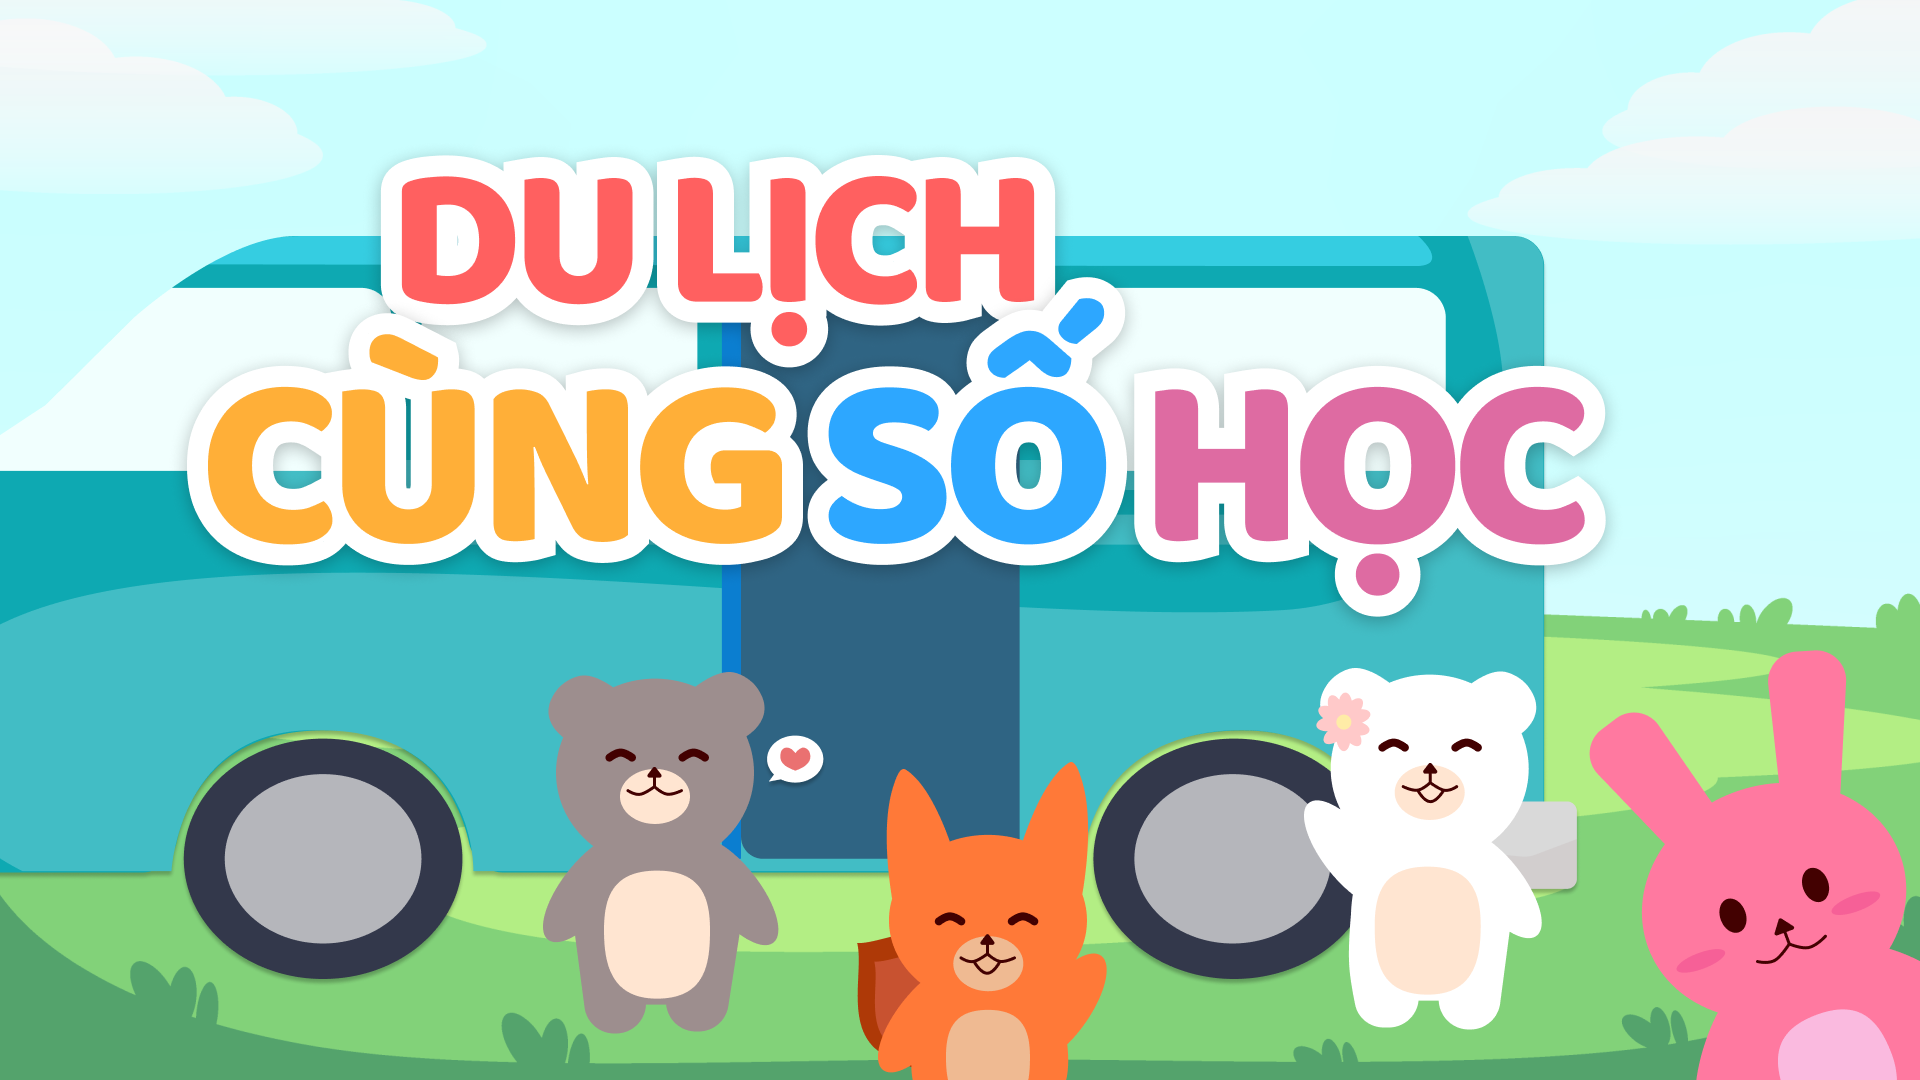
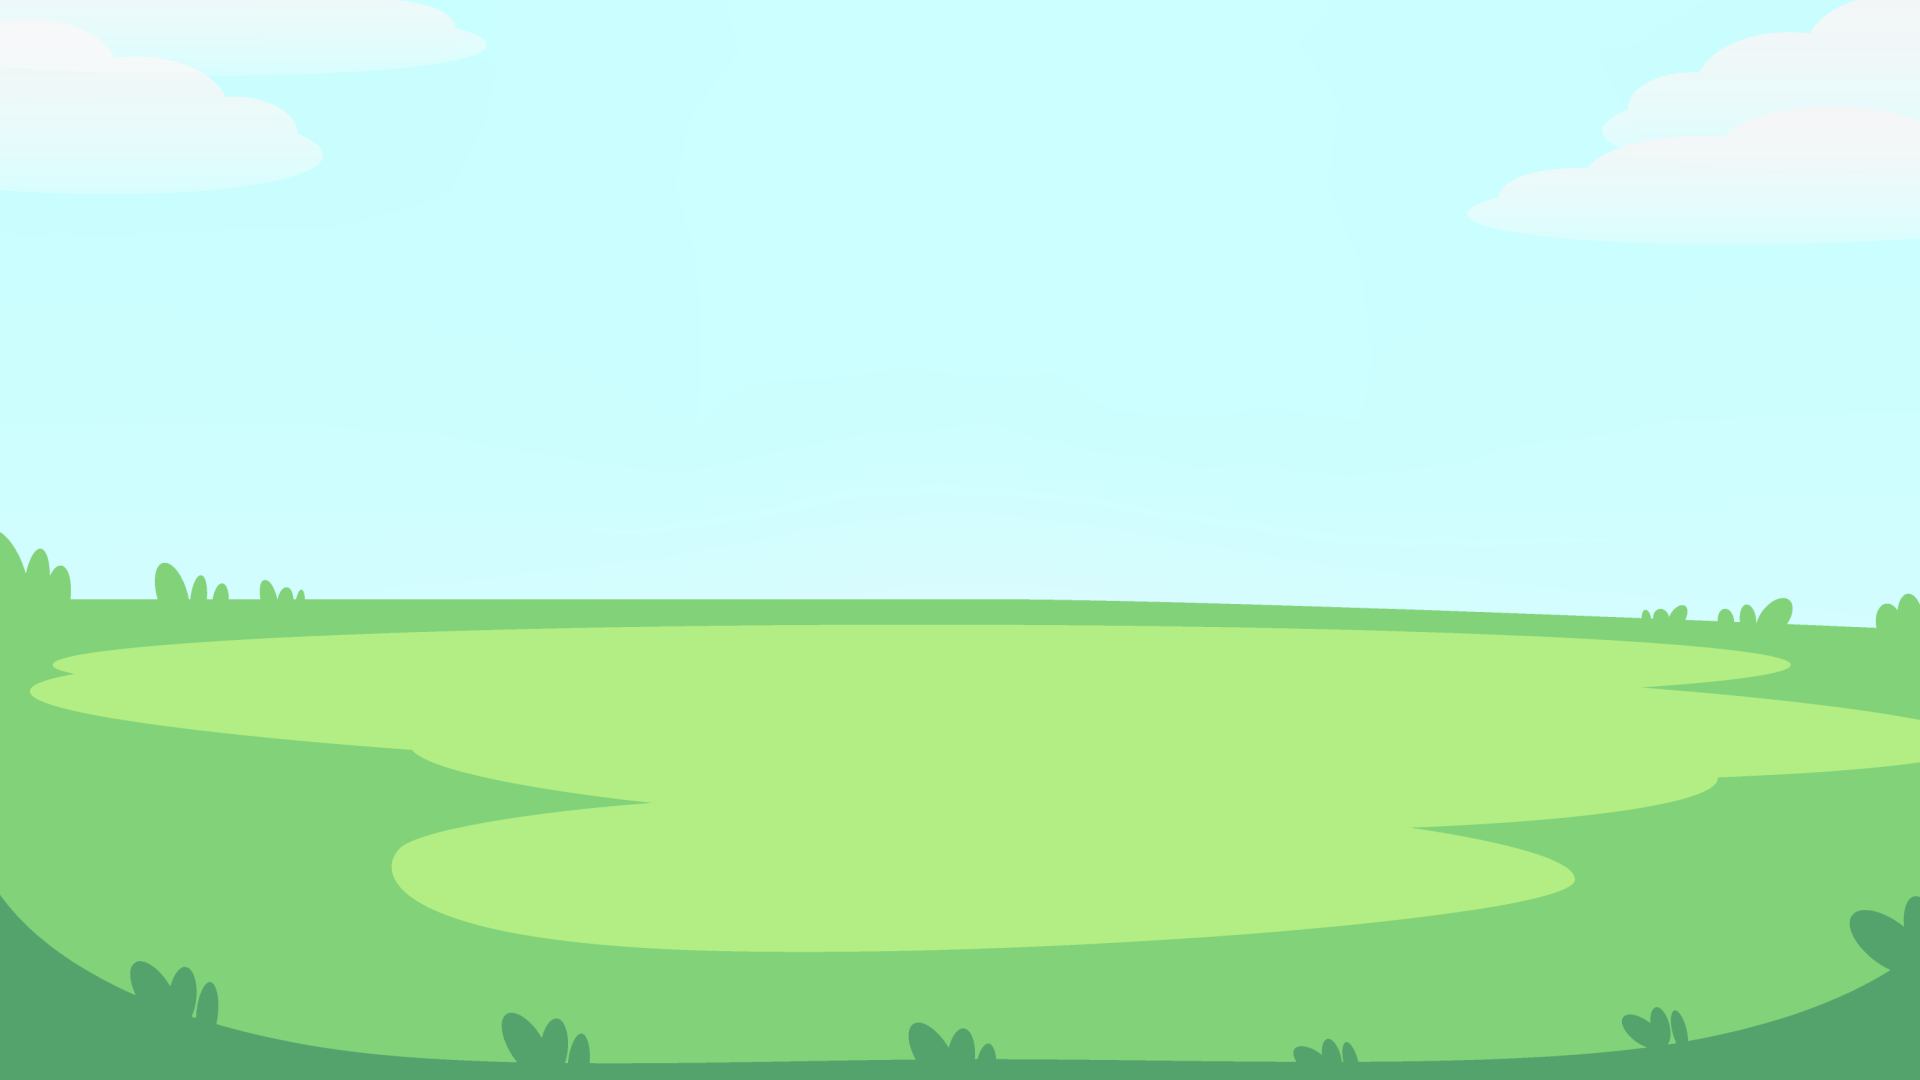
done layout screen2

diff --git a/avatar.html b/avatar.html
@@ -1,0 +1,55 @@
+<!DOCTYPE html>
+<html lang="en">
+  <head>
+    <meta charset="UTF-8" />
+    <meta http-equiv="X-UA-Compatible" content="IE=edge" />
+    <meta name="viewport" content="width=device-width, initial-scale=1.0" />
+    <title>Document</title>
+    <link rel="stylesheet" href="./Math.css" />
+    <link rel="stylesheet" href="./screen2.css" />
+    <link
+      href="https://fonts.googleapis.com/css?family=Baloo"
+      rel="stylesheet"
+    />
+  </head>
+  <body>
+    <div class="Screen1">
+      <img
+        class="Screen1_background"
+        src="./MathImg/screen2_background.png"
+        alt="Ảnh nen avatar"
+      />
+      <img
+        class="info_btn_screen1"
+        src="./MathImg/Info_btn.png"
+        alt="anh thong tin"
+      />
+      <img
+        class="screen2_text"
+        src="./MathImg/Screen2_text.png"
+        alt="Chon avatar"
+      />
+      <div class="avatar_name" id="rabit_name">Toto</div>
+      <img
+        class="rabit_screen2"
+        src="./MathImg/Nor-study-rabbit.png"
+        alt="Todo"
+      />
+      <img class="shadow" id="shadow1" src="./MathImg/shadow.png" alt="bong" />
+      <div class="avatar_name" id="fox_name">Foxy</div>
+      <img class="fox_screen2" src="./MathImg/Nor-study-Fox.png" alt="foxy" />
+      <img class="shadow" id="shadow2" src="./MathImg/shadow.png" alt="bong" />
+      <div class="avatar_name" id="bear_name">Bebe</div>
+      <img class="bear_screen2" src="./MathImg/Nor-study-Bear.png" alt="bebe" />
+      <img class="shadow" id="shadow3" src="./MathImg/shadow.png" alt="bong" />
+      <div class="avatar_name" id="bear2_name">Bearly</div>
+      <img
+        class="bear2_screen2"
+        src="./MathImg/Nor-study-Bear2.png"
+        alt="bearly"
+      />
+      <img class="shadow" id="shadow4" src="./MathImg/shadow.png" alt="bong" />
+      <a href="/name.html"> <div class="btn_continue">Tiếp tục</div></a>
+    </div>
+  </body>
+</html>

diff --git a/Math.html b/Math.html
@@ -1,15 +1,58 @@
 <!DOCTYPE html>
 <html lang="en">
-<head>
-    <meta charset="UTF-8">
-    <meta http-equiv="X-UA-Compatible" content="IE=edge">
-    <meta name="viewport" content="width=device-width, initial-scale=1.0">
+  <head>
+    <meta charset="UTF-8" />
+    <meta http-equiv="X-UA-Compatible" content="IE=edge" />
+    <meta name="viewport" content="width=device-width, initial-scale=1.0" />
     <title>Math so fun</title>
-    <link rel="stylesheet" href="./Math.css">
-</head>
-<body>
+    <link rel="stylesheet" href="./Math.css" />
+  </head>
+  <body>
     <div class="Screen1">
-        <img class="Screen1_background" src="./MathImg/Screen1_background.png" alt="Ảnh đầu game">
+      <img
+        class="Screen1_background"
+        src="./MathImg/Screen1_background.png"
+        alt="Ảnh đầu game"
+      />
+      <img
+        class="blackBear_screen1"
+        src="./MathImg/Bear_screen1.png"
+        alt="anh gau"
+      />
+      <img class="Bus_screen1" src="./MathImg/Bus.png" alt="anh bus" />
+      <img class="Fox_screen1" src="./MathImg/Fox_screen1.png" alt="anh cao" />
+      <img
+        class="info_btn_screen1"
+        src="./MathImg/Info_btn.png"
+        alt="anh thong tin"
+      />
+      <img
+        class="rabit_screen1"
+        src="./MathImg/Rabit_screen1.png"
+        alt="anh tho"
+      />
+      <a href="/avatar.html">
+        <img
+          class="Start_screen1"
+          src="./MathImg/Start_btn.png"
+          alt="anh bat dau"
+        />
+      </a>
+      <img
+        class="Text1_screen1"
+        src="./MathImg/Text_upper.png"
+        alt="anh text"
+      />
+      <img
+        class="Text2_screen1"
+        src="./MathImg/Text_under.png"
+        alt="anh text"
+      />
+      <img
+        class="whiteBear_screen1"
+        src="./MathImg/WhiteBear_screen1.png"
+        alt="anh bat dau"
+      />
     </div>
-</body>
+  </body>
 </html>

diff --git a/screen2.css b/screen2.css
@@ -1,0 +1,103 @@
+.screen2_text {
+  position: absolute;
+  width: 72vw;
+  height: 18.5vh;
+  left: 14vw;
+  top: 6.3vh;
+}
+.avatar_name {
+  position: absolute;
+  width: 5.57vw;
+  height: 5.8vh;
+  top: 28.98vh;
+  font-family: "Baloo";
+  font-style: normal;
+  font-weight: 400;
+  font-size: 40px;
+  line-height: 72px;
+  letter-spacing: -0.05em;
+  color: #ffffff;
+}
+#rabit_name {
+  left: 17.55vw;
+}
+#fox_name {
+  left: 38.54vw;
+}
+#bear_name {
+  left: 58.33vw;
+}
+#bear2_name {
+  width: 6.46vw;
+  left: 78.23vw;
+}
+.rabit_screen2 {
+  z-index: 10;
+  position: absolute;
+  width: 11.5vw;
+  height: 36vh;
+  left: 14.37vw;
+  top: 35vh;
+}
+.fox_screen2 {
+  z-index: 10;
+  position: absolute;
+  width: 15vw;
+  height: 35.36vh;
+  left: 34.8vw;
+  top: 35.55vh;
+}
+.bear_screen2 {
+  z-index: 10;
+  position: absolute;
+  width: 12.25vw;
+  height: 33.47vh;
+  left: 54.375vw;
+  top: 37.5vh;
+}
+.bear2_screen2 {
+  z-index: 10;
+  position: absolute;
+  width: 12.25vw;
+  height: 33.47vh;
+  left: 75.15vw;
+  top: 37.5vh;
+}
+.shadow {
+  z-index: 0;
+  position: absolute;
+  width: 9.6vw;
+  height: 2.7vh;
+  top: 69.63vh;
+  background: #303030;
+  filter: blur(30px);
+}
+#shadow1 {
+  left: 15.67vw;
+}
+#shadow2 {
+  left: 36.25vw;
+}
+#shadow3 {
+  left: 55.73vw;
+}
+#shadow4 {
+  left: 76.6vw;
+}
+.btn_continue {
+  background: #ffe9ce;
+  border-radius: 30px;
+  position: absolute;
+  padding: 7px 35px;
+  left: 42vw;
+  bottom: 4vh;
+  font-family: "Baloo";
+  font-style: normal;
+  font-weight: 400;
+  font-size: 48px;
+  line-height: 100px;
+  text-align: center;
+  letter-spacing: -0.05em;
+  color: #000000;
+  box-shadow: 0px 10px #f7c7d5;
+}

diff --git a/Math.css b/Math.css
@@ -3,6 +3,7 @@ html,
 body {
   margin: 0;
   padding: 0;
+  box-sizing: border-box;
 }
 .Screen1 {
   width: 100vw;
@@ -12,4 +13,73 @@ body {
 .Screen1_background {
   width: 100%;
   height: 100%;
+  position: relative;
+  overflow: hidden;
+}
+.blackBear_screen1,
+.Bus_screen1,
+.rabit_screen1,
+.Start_screen1,
+.Text1_screen1,
+.Text2_screen1,
+.Fox_screen1,
+.whiteBear_screen1,
+.info_btn_screen1 {
+  position: absolute;
+}
+.Bus_screen1 {
+  z-index: 0;
+  width: 85vw;
+  height: 70vh;
+  left: -7.5vw;
+  top: 20vh;
+}
+.rabit_screen1 {
+  width: 17vw;
+  height: 40vh;
+  right: 0vw;
+  bottom: 0px;
+}
+.blackBear_screen1 {
+  z-index: 1;
+  width: 14.6vw;
+  height: 33.5vh;
+  left: 21.5vw;
+  bottom: 2.5vh;
+}
+.Start_screen1 {
+  width: 17.4vw;
+  height: 12vh;
+  left: 41vw;
+  top: 55vh;
+}
+.Text1_screen1 {
+  width: 34.5vw;
+  height: 18.5vh;
+  left: 14.2vw;
+  top: 13vh;
+}
+.Text2_screen1 {
+  width: 73vw;
+  height: 28vh;
+  left: 5vw;
+  top: 28vh;
+}
+.whiteBear_screen1 {
+  width: 12.4vw;
+  height: 33.5vh;
+  left: 63.38vw;
+  bottom: 2.5vh;
+}
+.Fox_screen1 {
+  width: 15.2vw;
+  height: 30vh;
+  left: 38vw;
+  bottom: 0px;
+}
+.info_btn_screen1{
+  width: 9vh;
+  height: 8.8vh;
+  right: 3.6vw;
+  top: 5vh;
 }

diff --git a/name.html b/name.html
@@ -1,0 +1,12 @@
+<!DOCTYPE html>
+<html lang="en">
+<head>
+    <meta charset="UTF-8">
+    <meta http-equiv="X-UA-Compatible" content="IE=edge">
+    <meta name="viewport" content="width=device-width, initial-scale=1.0">
+    <title>Document</title>
+</head>
+<body>
+    <h1>ko co gi nha</h1>
+</body>
+</html>
